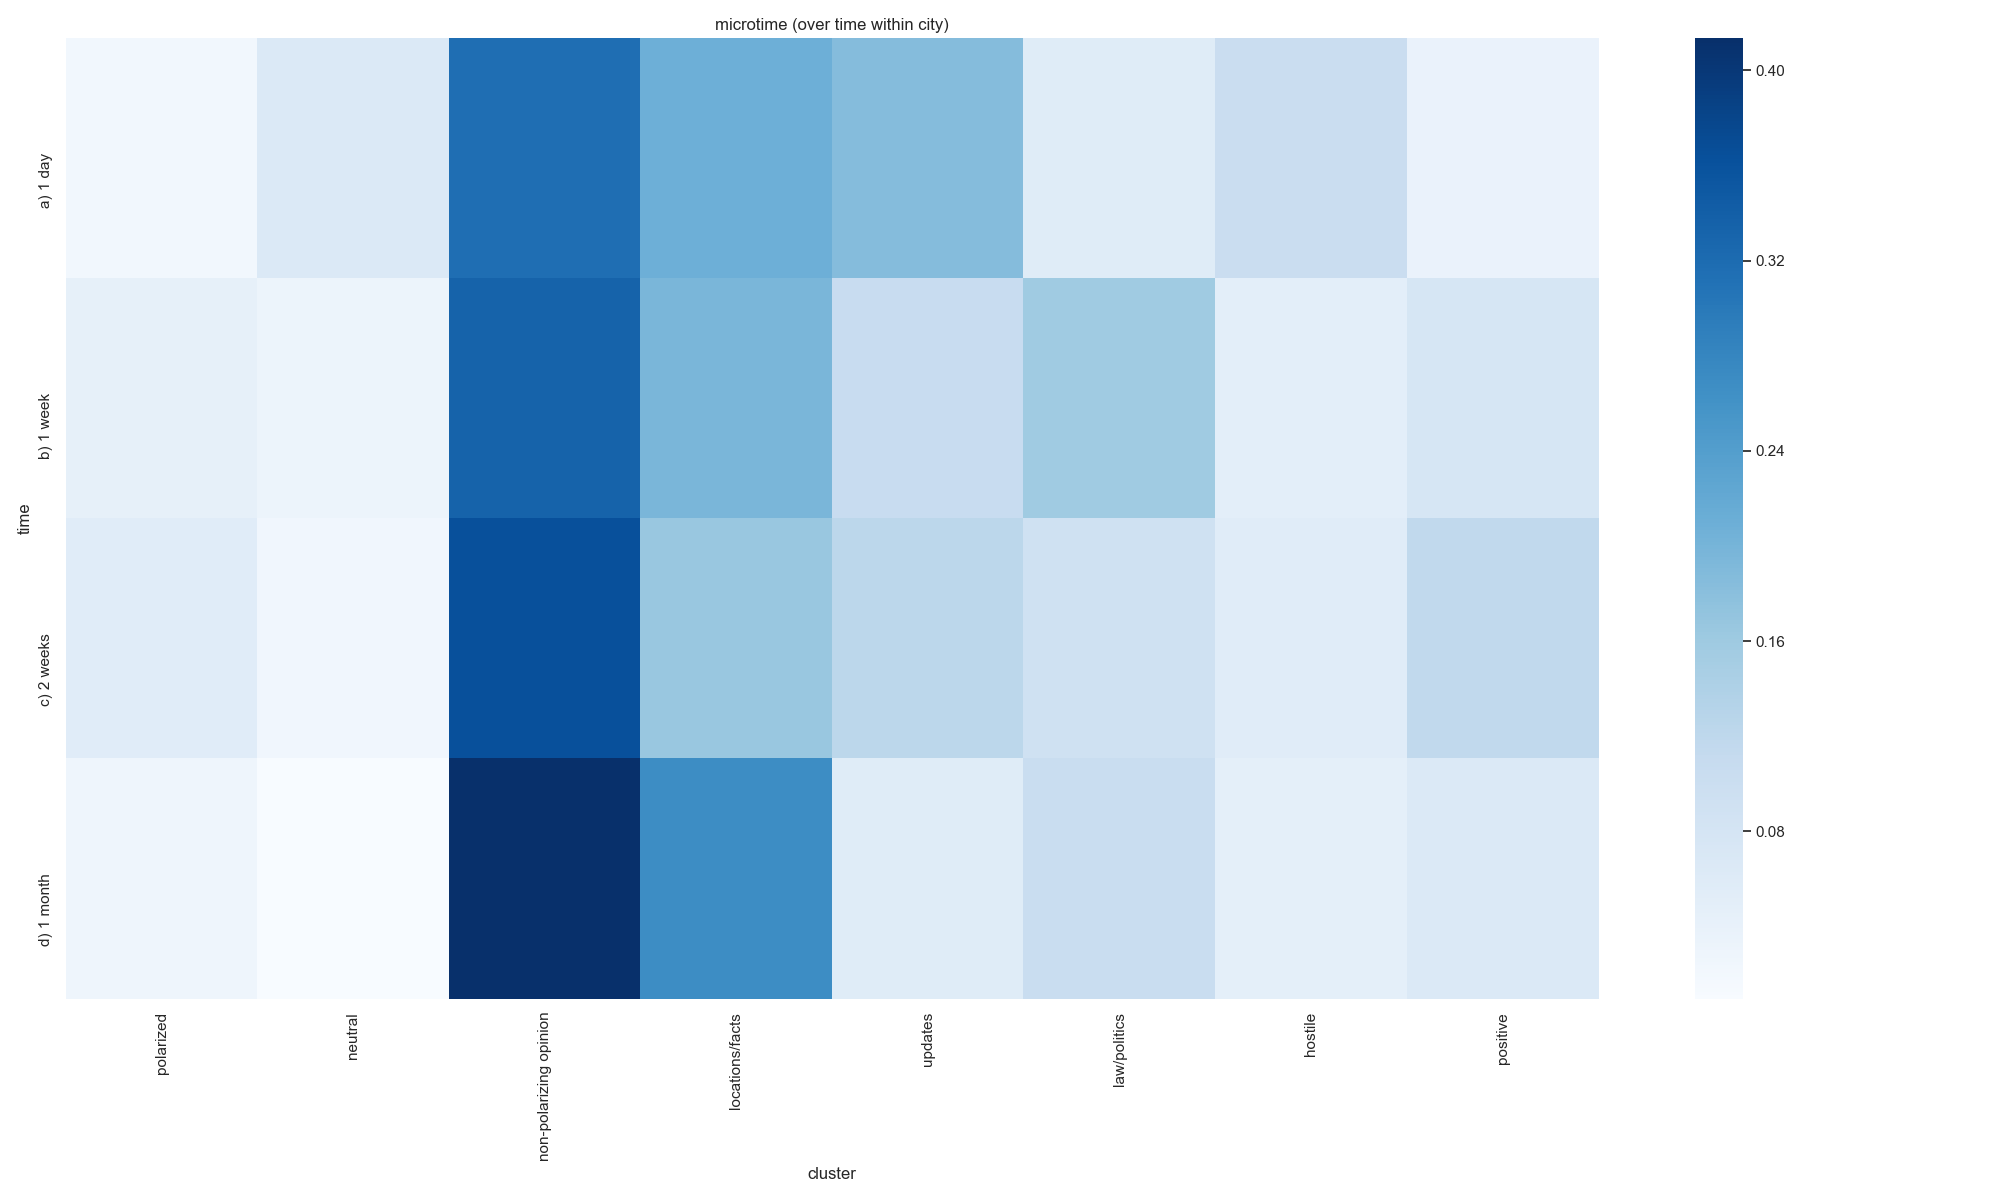
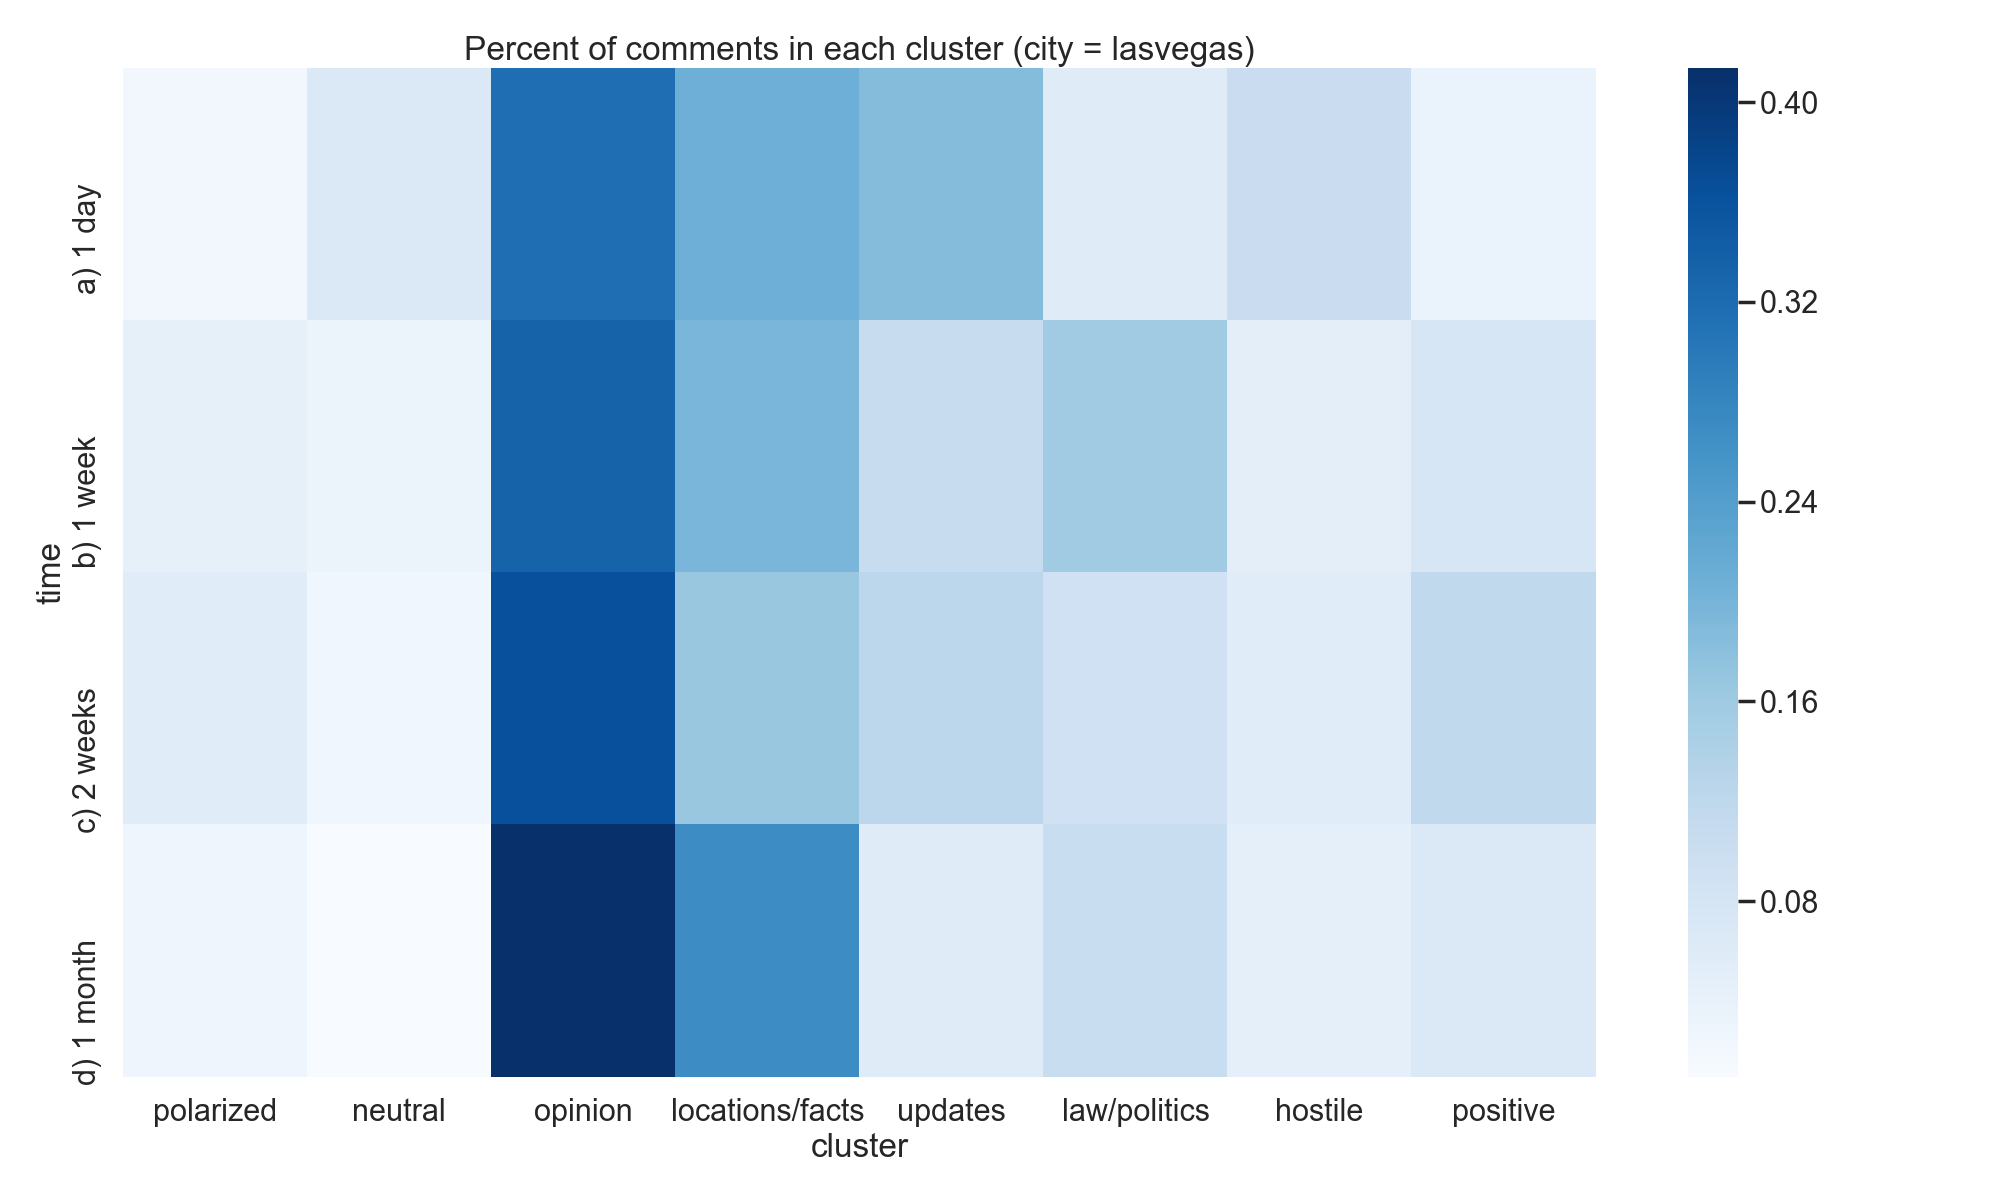
Adds new plots

diff --git a/microtime.py b/microtime.py
@@ -37,6 +37,12 @@ def time_class(time, ref):
     else:
         return 'd) 1 month'
 
+
+aclusters = pd.DataFrame()
+xticks = ['polarized', 'neutral', 'opinion', 
+    'locations/facts', 'updates', 'law/politics', 'hostile', 'positive']
+sns.set(context='poster', style='white')
+
 for comment_path, ref in zip(paths, refs):
 
     time = dict()
@@ -62,8 +68,10 @@ for comment_path, ref in zip(paths, refs):
     clusters = pd.read_csv('labels/clusters.txt')
     clusters['time'] = clusters['reddit_id'].apply(lambda id_: 
         time[id_] if id_ in time else None)
+    clusters['city'] = save_path
     clusters = clusters[~clusters['time'].isnull()]
     clusters['count'] = 1.0
+    aclusters = pd.concat([aclusters, clusters])
     df = clusters.pivot_table(
         index='time', columns='cluster', 
         values='count', aggfunc=sum)
@@ -71,13 +79,46 @@ for comment_path, ref in zip(paths, refs):
     fig, ax = plt.subplots(figsize=(20, 12))
     for i in range(df.values.shape[0]):
         df.values[i] = df.values[i] / df.values[i].sum()
-    xticks = ['polarized', 'neutral', 'non-polarizing opinion', 
-        'locations/facts', 'updates', 'law/politics', 'hostile', 'positive']
     sns.heatmap(df, ax=ax, cmap='Blues', xticklabels=xticks)
-    plt.xticks(rotation='vertical')
-    plt.title(f'microtime (over time within city)')
+    plt.xticks(rotation='horizontal')
+    plt.title(f'Percent of comments in each cluster (city = {save_path})')
     plt.tight_layout()
     plt.savefig(f'microtime/{save_path}')
     with open(f'microtime/pval.txt', 'a') as f:
         f.write(f'{save_path} p-value: {p}\n')
+
+for c in set(aclusters['city']):
+    cidx = aclusters['city'] == c
+    aclusters.loc[cidx,'count'] = aclusters[cidx]['count'].astype(float) / aclusters[cidx]['count'].sum()
+
+for l in set(aclusters['cluster']):
+    df = aclusters[aclusters['cluster'] == l]
+    df = df.groupby(['time', 'city']).sum().reset_index()
+    for c in set(df['city']):
+        cidx = df['city'] == c
+        df.loc[cidx,'count'] = df[cidx]['count'].astype(float) / df[cidx]['count'].sum()
+    plt.clf()
+    count = 'Percent of Comments'
+    df[count] = df['count']
+    sns.pointplot(x="time", y=count, hue="city",
+        data=df, dodge=True)
+    plt.title(f'Percent of comments in each time-window (cluster = {xticks[int(l)]})')
+    plt.tight_layout()
+    plt.savefig(f'all-cities/cluster={l}')
+
+for t in set(aclusters['time']):
+    df = aclusters[aclusters['time'] == t]
+    df = df.groupby(['cluster', 'city']).sum().reset_index()
+    for c in set(df['city']):
+        cidx = df['city'] == c
+        df.loc[cidx,'count'] = df[cidx]['count'].astype(float) / df[cidx]['count'].sum()
+    plt.clf()
+    count = 'Percent of Comments'
+    df[count] = df['count']
+    df['cluster'] = df['cluster'].apply(lambda l: xticks[l])
+    sns.barplot(x="cluster", y=count, hue="city",
+        data=df, dodge=True)
+    plt.title(f'Percent of comments in each cluster (time = {t})')
+    plt.tight_layout()
+    plt.savefig(f'all-cities/time={t}')
 
